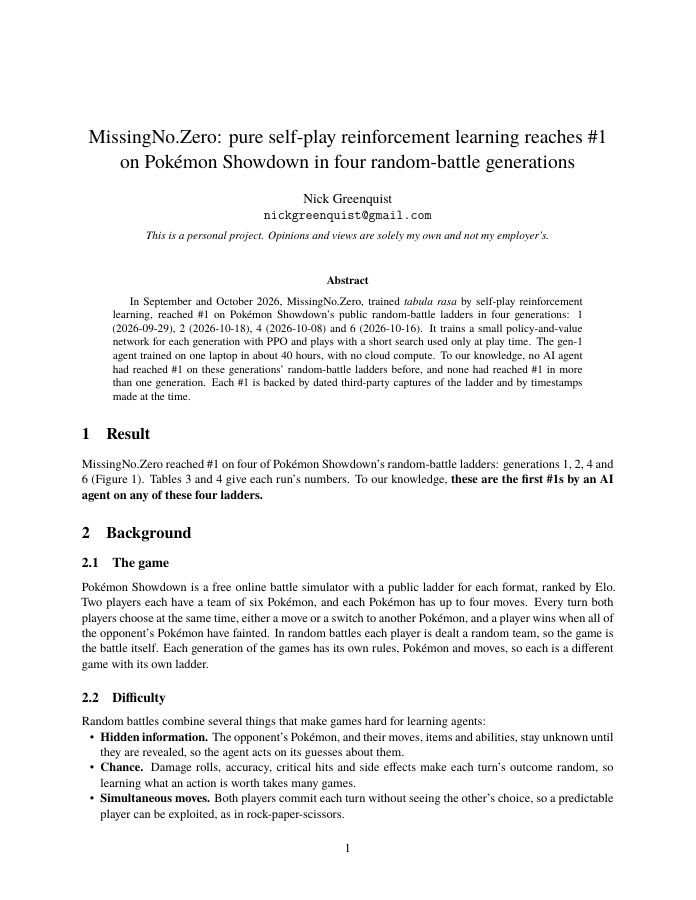
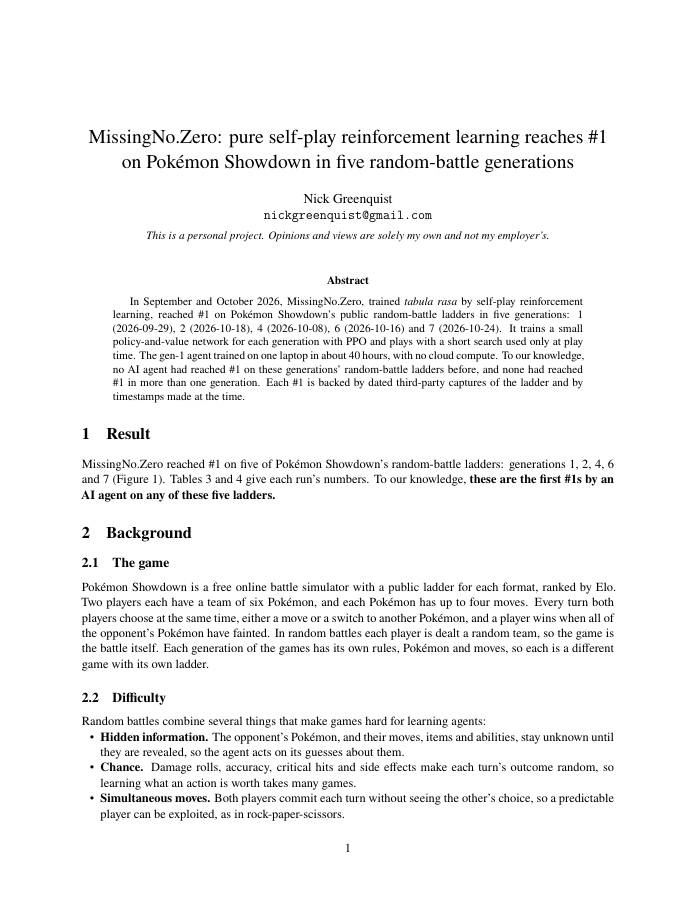
Gen 7 at #1 and gen 9 in the top 10 (best #5): their boards, gen 7's battle GIF, the paper's first page

diff --git a/README.md b/README.md
@@ -5,18 +5,18 @@
 <h1 align="center">MissingNo.Zero</h1>
 
 <p align="center">
-  <b>#1 on Pokémon Showdown's global random-battle ladders in four generations.</b>
+  <b>#1 on Pokémon Showdown's global random-battle ladders in five generations.</b>
 </p>
 
 <p align="center">
   <!-- TODO: the arXiv ID in every arxiv.org/abs/TODO and arxiv.org/pdf/TODO link and in the BibTeX, once the paper is announced -->
   <a href="https://arxiv.org/abs/TODO"><img src="https://img.shields.io/badge/arXiv-TODO-b31b1b" alt="arXiv: TODO"></a>
-  <img src="https://img.shields.io/badge/ladder%20%231-gens%201%20%C2%B7%202%20%C2%B7%204%20%C2%B7%206-ffcb05" alt="Ladder #1 in gens 1, 2, 4 and 6">
+  <img src="https://img.shields.io/badge/ladder%20%231-gens%201%20%C2%B7%202%20%C2%B7%204%20%C2%B7%206%20%C2%B7%207-ffcb05" alt="Ladder #1 in gens 1, 2, 4, 6 and 7">
 </p>
 
 <p align="center">
   In September and October 2026, MissingNo.Zero, trained <i>tabula rasa</i> by self-play reinforcement learning, reached
-  #1 on Pokémon Showdown's public random-battle ladders in four generations.
+  #1 on Pokémon Showdown's public random-battle ladders in five generations.
 </p>
 
 <p align="center">
@@ -57,10 +57,24 @@
     <td align="center"><b>#1</b> on 2026-10-08 · peak Elo 1738 · <a href="https://web.archive.org/web/20261008184118/https://pokemonshowdown.com/ladder/gen4randombattle">archived at #1</a></td>
     <td align="center"><b>#1</b> on 2026-10-16 · peak Elo 1942 · <a href="https://web.archive.org/web/20261016121841/https://pokemonshowdown.com/ladder/gen6randombattle?snap=1792153118">archived at #1</a></td>
   </tr>
+  <tr>
+    <th width="50%">Gen 7 · Sun / Moon / Ultra Sun / Ultra Moon</th>
+    <th width="50%">Gen 9 · Scarlet / Violet</th>
+  </tr>
+  <tr>
+    <td width="50%"><img src="media/board_gen7.png" width="100%"
+         alt="The top 10 of Showdown's gen7randombattle top-500 board at its peak, 3:43 pm EDT on 2026-10-24, as the Wayback Machine captured it: MissingNo.ZeroBot at #1 with Elo 1900, GXE 89.3%, Glicko-1 1900 ± 25; other players' names blanked"></td>
+    <td width="50%"><img src="media/board_gen9.png" width="100%"
+         alt="The top 10 of Showdown's gen9randombattle top-500 board at its peak, 3:26 am EDT on 2026-10-25, as the Wayback Machine captured it: MissingNo.ZeroBot at #5 with Elo 2453, GXE 93.4%, Glicko-1 1999 ± 25; other players' names blanked"></td>
+  </tr>
+  <tr>
+    <td align="center"><b>#1</b> on 2026-10-24 · peak Elo 1900 · <a href="https://web.archive.org/web/20261024193431/https://pokemonshowdown.com/ladder/gen7randombattle?snap=1792870430">archived at #1</a> · reached after Showdown made ladder games against bots opt-in</td>
+    <td align="center"><b>Top 10</b> · best <b>#5</b> on 2026-10-25 · peak Elo 2453 · <a href="https://web.archive.org/web/20261025072637/https://pokemonshowdown.com/ladder/gen9randombattle?snap=1792913158">archived at #5</a> · reached after Showdown made ladder games against bots opt-in</td>
+  </tr>
 </table>
 
-<p align="center"><sub>Each board's top 10 with our account at #1, at the highest Elo we have an image of (gen 1's shows
-1717, below its 1726 peak). Other players' names are blanked. GXE is Showdown's estimate of the chance to beat a random
+<p align="center"><sub>Each board's top 10 with our account at #1 (gen 9's at #5, its best; it did not reach #1), at the
+highest Elo we have an image of (gen 1's shows 1717, below its 1726 peak). Other players' names are blanked. GXE is Showdown's estimate of the chance to beat a random
 ladder player. Each #1 is backed by dated third-party captures of the ladder and by timestamps made at the time.</sub></p>
 
 ## Real games on the public ladder
@@ -82,24 +96,32 @@ ladder player. Each #1 is backed by dated third-party captures of the ladder and
     <td align="center">Gen 4 · beats a 1521-rated player</td>
     <td align="center">Gen 6 · beats a 1740-rated player</td>
   </tr>
+  <tr>
+    <td colspan="2" align="center"><img src="media/battle_gen7.gif" width="50%" alt="A win on the gen-7 random-battle ladder over a 1692-rated player (opponent anonymized)"></td>
+  </tr>
+  <tr>
+    <td colspan="2" align="center">Gen 7 · beats a 1692-rated player</td>
+  </tr>
 </table>
 
-<p align="center"><sub>Opponents anonymized. Every ladder account has "bot" in its name, the bot never poses as human,
-and opponents who ask not to play a bot are opted out. Showdown opened its bot registry on 2026-10-13, and its staff
-marked our accounts as bots, so the gen 2 and gen 6 runs were played as registered bots. No moderator contacted us
-during any run. All four runs ended before 2026-10-20, when Showdown's code added an opt-in for ladder matchmaking
-against bots (off by default).</sub></p>
+<p align="center"><sub>Opponents anonymized. Every ladder account has "bot" in its name, and the bot never poses as
+human. Showdown opened its bot registry on 2026-10-13, and its staff marked our accounts as bots, so the gen 2, 6, 7
+and 9 runs were played as registered bots. No moderator contacted us during any run. The gen 1, 2, 4 and 6 runs
+ended before 2026-10-20, when Showdown's code added an opt-in for ladder matchmaking against bots (off by default);
+until then the ladder paired a bot like any other account, by rating, with whoever was searching for a game, and being
+registered did not change that. Gen 7's and gen 9's runs came after it, so Showdown could match them only with players who had
+turned that opt-in on and with other bots; we do not know what share of the board's active players had.</sub></p>
 
 ## The paper
 
 <p align="center">
   <a href="https://arxiv.org/abs/TODO"><img src="media/paper_page1.png" width="250"
-     alt="The first page of the paper, MissingNo.Zero: pure self-play reinforcement learning reaches #1 on Pokémon Showdown in four random-battle generations"></a>
+     alt="The first page of the paper, MissingNo.Zero: pure self-play reinforcement learning reaches #1 on Pokémon Showdown in five random-battle generations"></a>
 </p>
 
 <p align="center">
   <b><a href="https://arxiv.org/abs/TODO">MissingNo.Zero: pure self-play reinforcement learning reaches #1 on Pokémon
-  Showdown in four random-battle generations</a></b><br>
+  Showdown in five random-battle generations</a></b><br>
   Nick Greenquist · arXiv, 2026 · <a href="https://arxiv.org/abs/TODO">abstract</a> · <a href="https://arxiv.org/pdf/TODO">PDF</a>
 </p>
 
@@ -109,7 +131,7 @@ against bots (off by default).</sub></p>
 ```bibtex
 @misc{greenquist2026missingnozero,
   title         = {{MissingNo.Zero}: pure self-play reinforcement learning reaches \#1 on {Pok\'{e}mon Showdown}
-                   in four random-battle generations},
+                   in five random-battle generations},
   author        = {Greenquist, Nick},
   year          = {2026},
   eprint        = {TODO},
@@ -151,6 +173,7 @@ played side by side:
 | 2 | 69.9% (64.0–75.2) | 80.9% (75.6–85.2) | 256 |
 | 4 | 61.6% (59.4–63.7) | 67.5% (65.4–69.5) | 2,000 |
 | 6 | 66.4% (60.4–71.9) | 68.4% (62.4–73.7) | 256 |
+| 7 | 66.8% (60.8–72.3) | 71.9% (66.1–77.0) | 256 |
 
 <sub>Win rate with its 95% Wilson interval. Foul Play's search is fixed per generation, so compare within a row only.
 For gens 2, 4 and 6, these games used a smaller search than the ladder did, so their with-search numbers likely
@@ -166,6 +189,7 @@ Every network trained from random weights. Later generations rented one GPU at a
 | 2 | 600M | rented GPU | about 3 days | about $160 |
 | 4 | 700M | rented GPU | about 6 days | about $230 |
 | 6 | 600M | rented GPU | about 4 days | about $170 |
+| 7 | 600M | rented GPU | about 4 days | about $220 |
 
 ## Why it's hard
 
@@ -196,7 +220,7 @@ Random battles combine several things that make games hard for learning agents:
   - The [PokéAgent Challenge](https://arxiv.org/abs/2603.15563), a NeurIPS 2025 competition (Karten et al., 2026),
     was played in generation 1 OU and generation 9 OU, where players build their own teams, on a separate server for
     AI agents, and reports no public-ladder rank.
-- **Earlier #1s.** To our knowledge, no agent before ours reached #1 on the generation 1, 2, 4 or 6 random-battle
+- **Earlier #1s.** To our knowledge, no agent before ours reached #1 on the generation 1, 2, 4, 6 or 7 random-battle
   ladders, or in more than one generation; every earlier AI #1 we found was in generation 9, including Jaxcalibur's
   in random battles.
 
